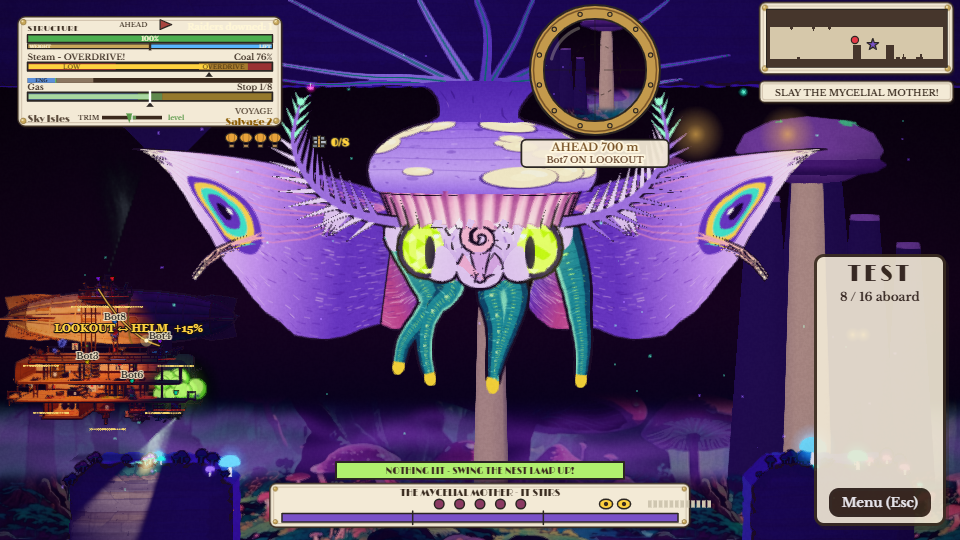
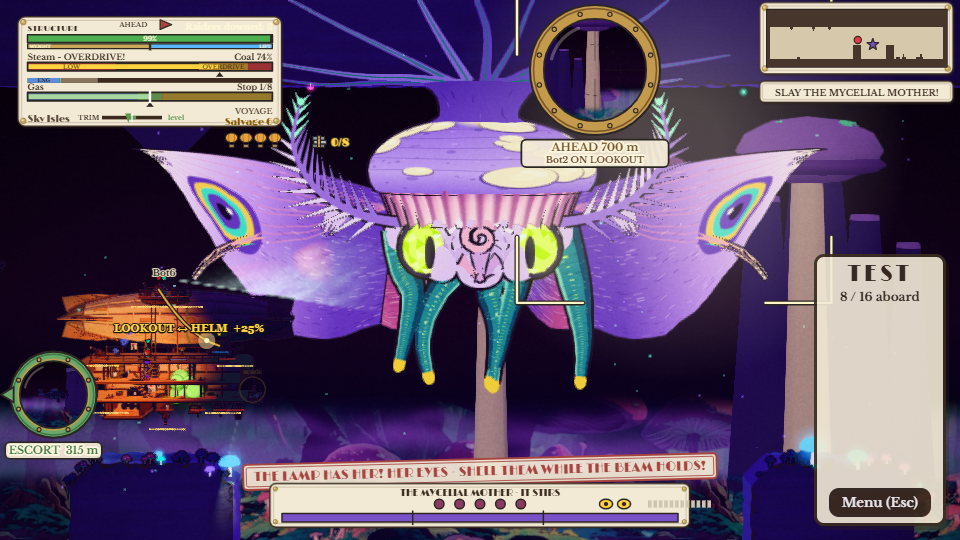
Gate flake fix: creature3d-check was not deterministic (real-time sim frames, unseeded Math.random, performance.now in bots) - the sim is frozen from the first line, stepped with a seeded stream and a sim clock; the Titan boulder test divides by the head group's breath scale; the Mother shot runs on

diff --git a/3D.md b/3D.md
@@ -1051,3 +1051,5 @@ SHIPS_BOOK.md L4 follow-up. View only (`view3d/`); nothing in `host/` is touched
 
 ## Next: the art-director review
 Fable reviewed the finished 3D build: see **[ART_REVIEW_3D.md](ART_REVIEW_3D.md)** for the top 10 gaps and packages A1-A9.
+
+**Gate flake fix (creature3d-check, the Mother shot).** The Wyrm breath wait, the Titan boulder and the Mother picture failed on busy machines, at the old commits too: the checks were not deterministic. `creature3d-check` now freezes the sim from its first line, steps it by hand with its own seeded random stream and a sim clock for `performance.now` (the bots and guns time cooldowns with it), and the Titan boulder test divides by the head group's breath scale (`hg.scale.z`, 1 + BREATH.AMOUNT * puff; it only passed when the puff was 0). `view3d-check` runs the Mother scene on the same sim clock (the nest lamp sweeps with `performance.now`), so its fixture was re-captured and the loosened 20 % block limit is gone. Tight timing numbers (frame JS ms) still wobble when many checks run at once: run the gates one at a time.
